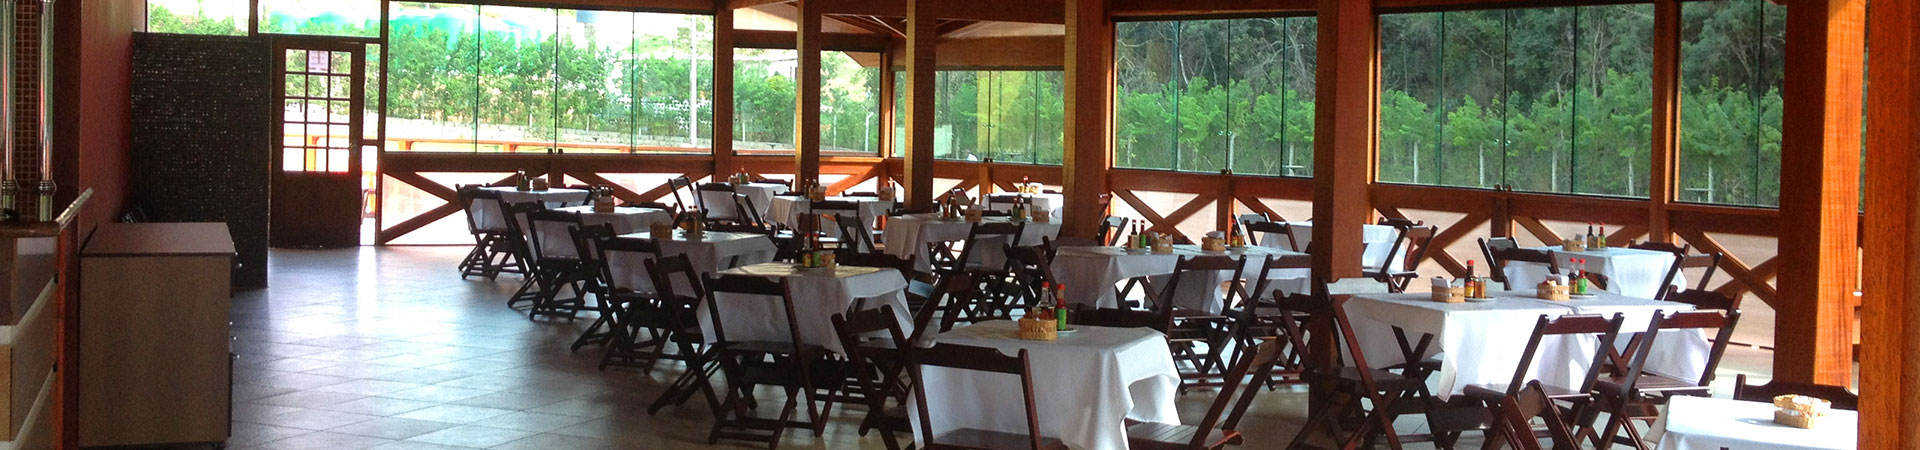
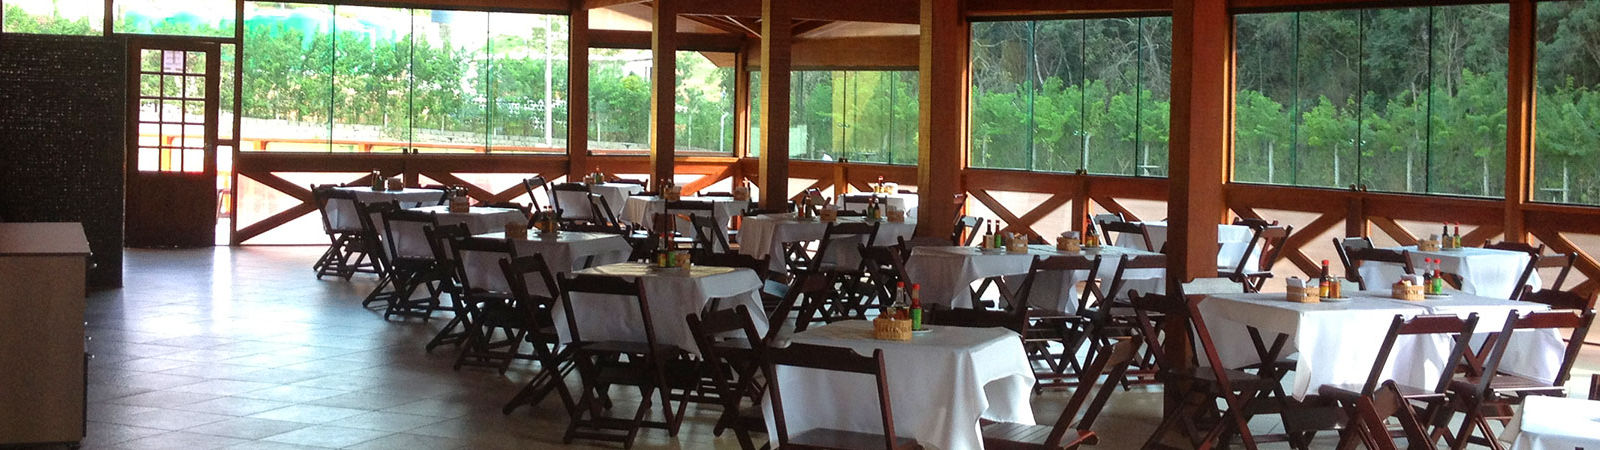
General fixes - Fixed album bug - Added services base - Reduced home images size (almost 200kb economy from previous version, width from 1920 to 1600) - Updated menu language (pt-br all) - Removed header uppwer shadow

diff --git a/assets/js/custom.js b/assets/js/custom.js
@@ -173,7 +173,7 @@ jQuery(document).ready(function() {
 
 	//TRANSFORM MENU INTO SELECT FOR RESPONSIVE LAYOUT //
 	$('#mainnav').mobileMenu({
-		defaultText: 'Navigate to...',
+		defaultText: 'Navegar para...',
 		className: 'select-menu',
 		subMenuDash: '&ndash;'
 	});

diff --git a/assets/css/style.css b/assets/css/style.css
@@ -1189,7 +1189,9 @@ h3.service {
 }
 
 .fullwidthbanner-container{
-	width:100% !important;
+	width: auto !important;
+	max-width: 1600px !important;
+	margin: 0 auto !important;
 	position:relative;
 	padding:0;
 	max-height:450px !important;
